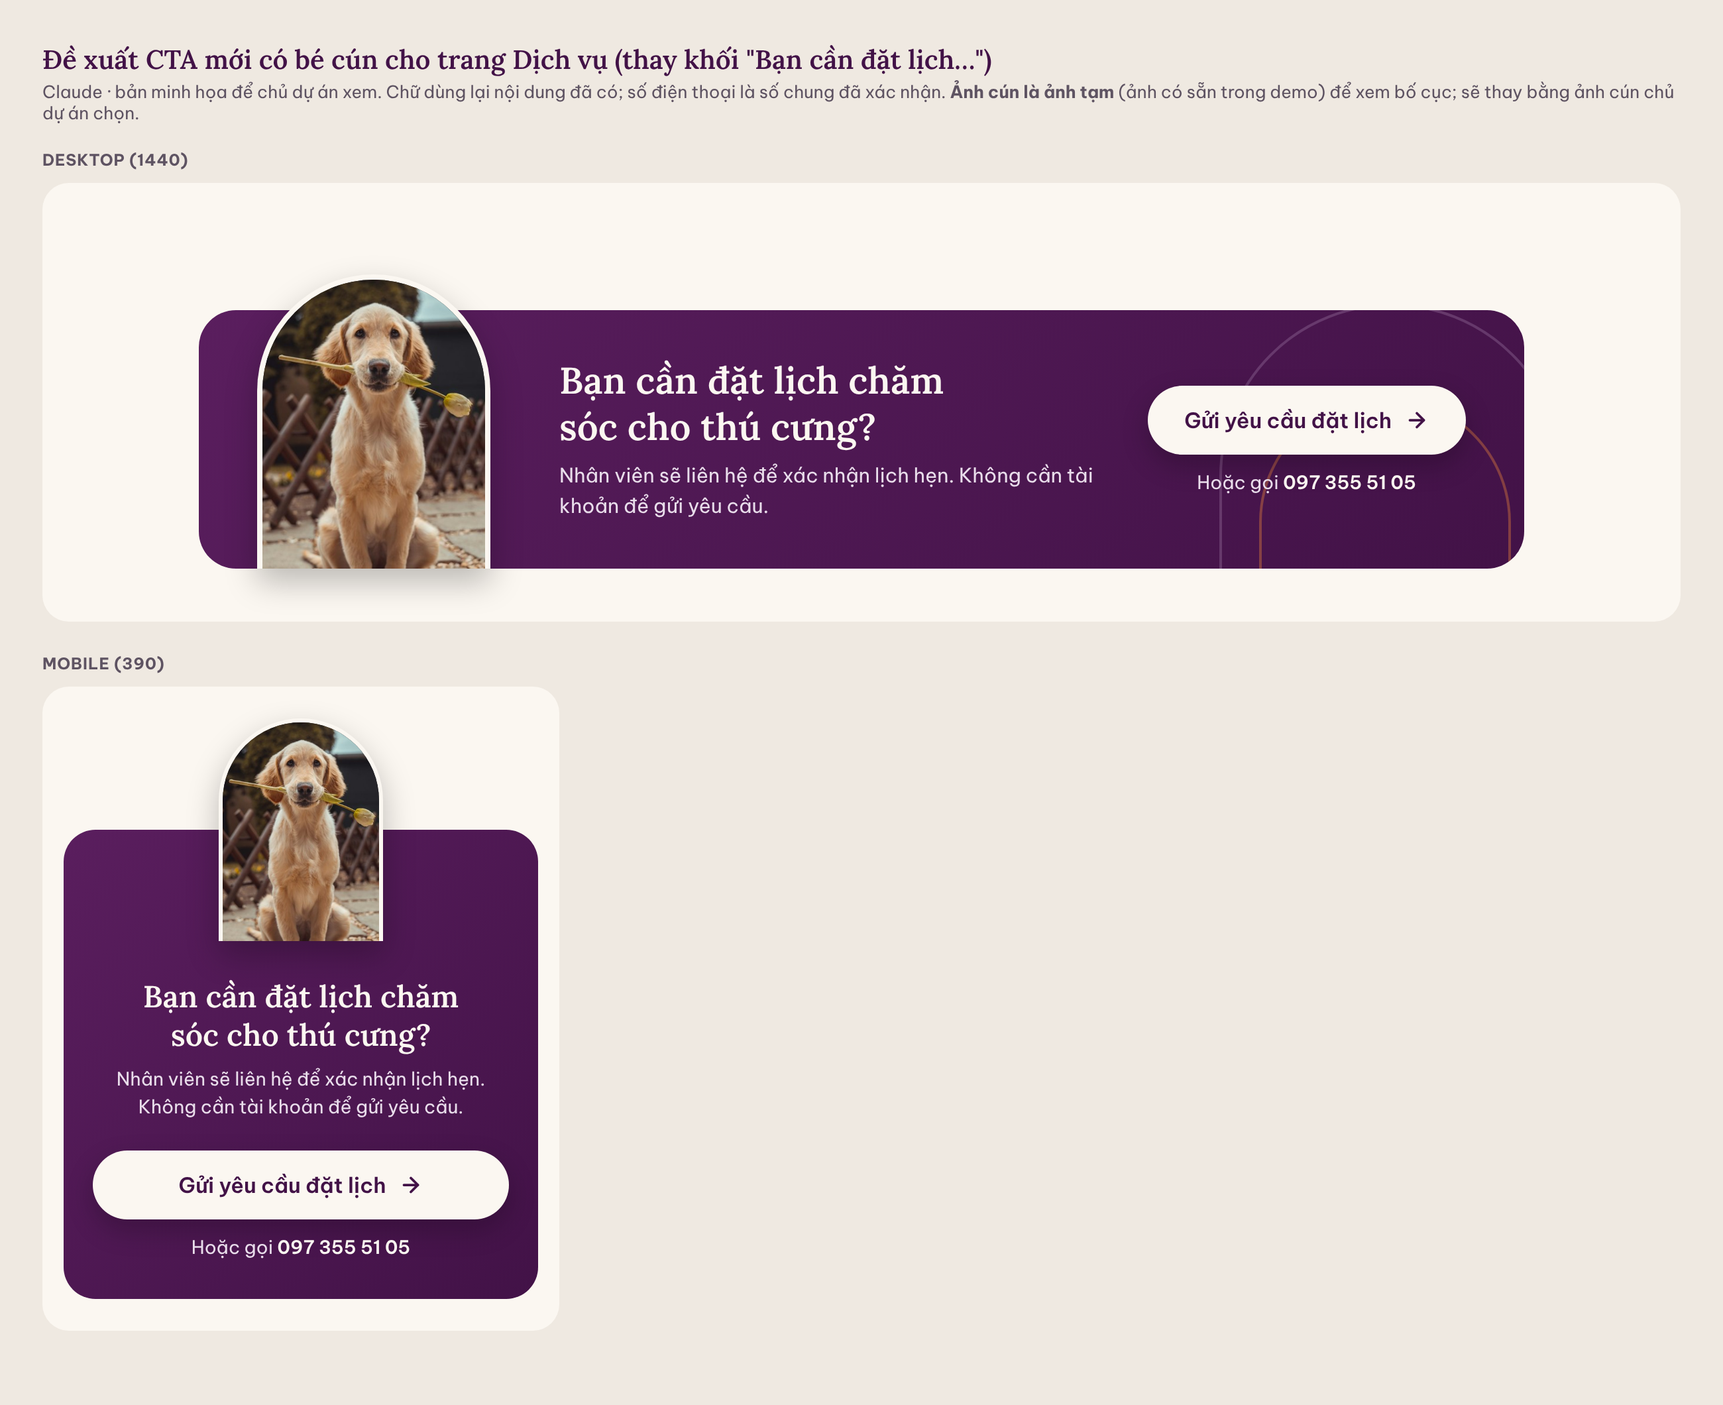
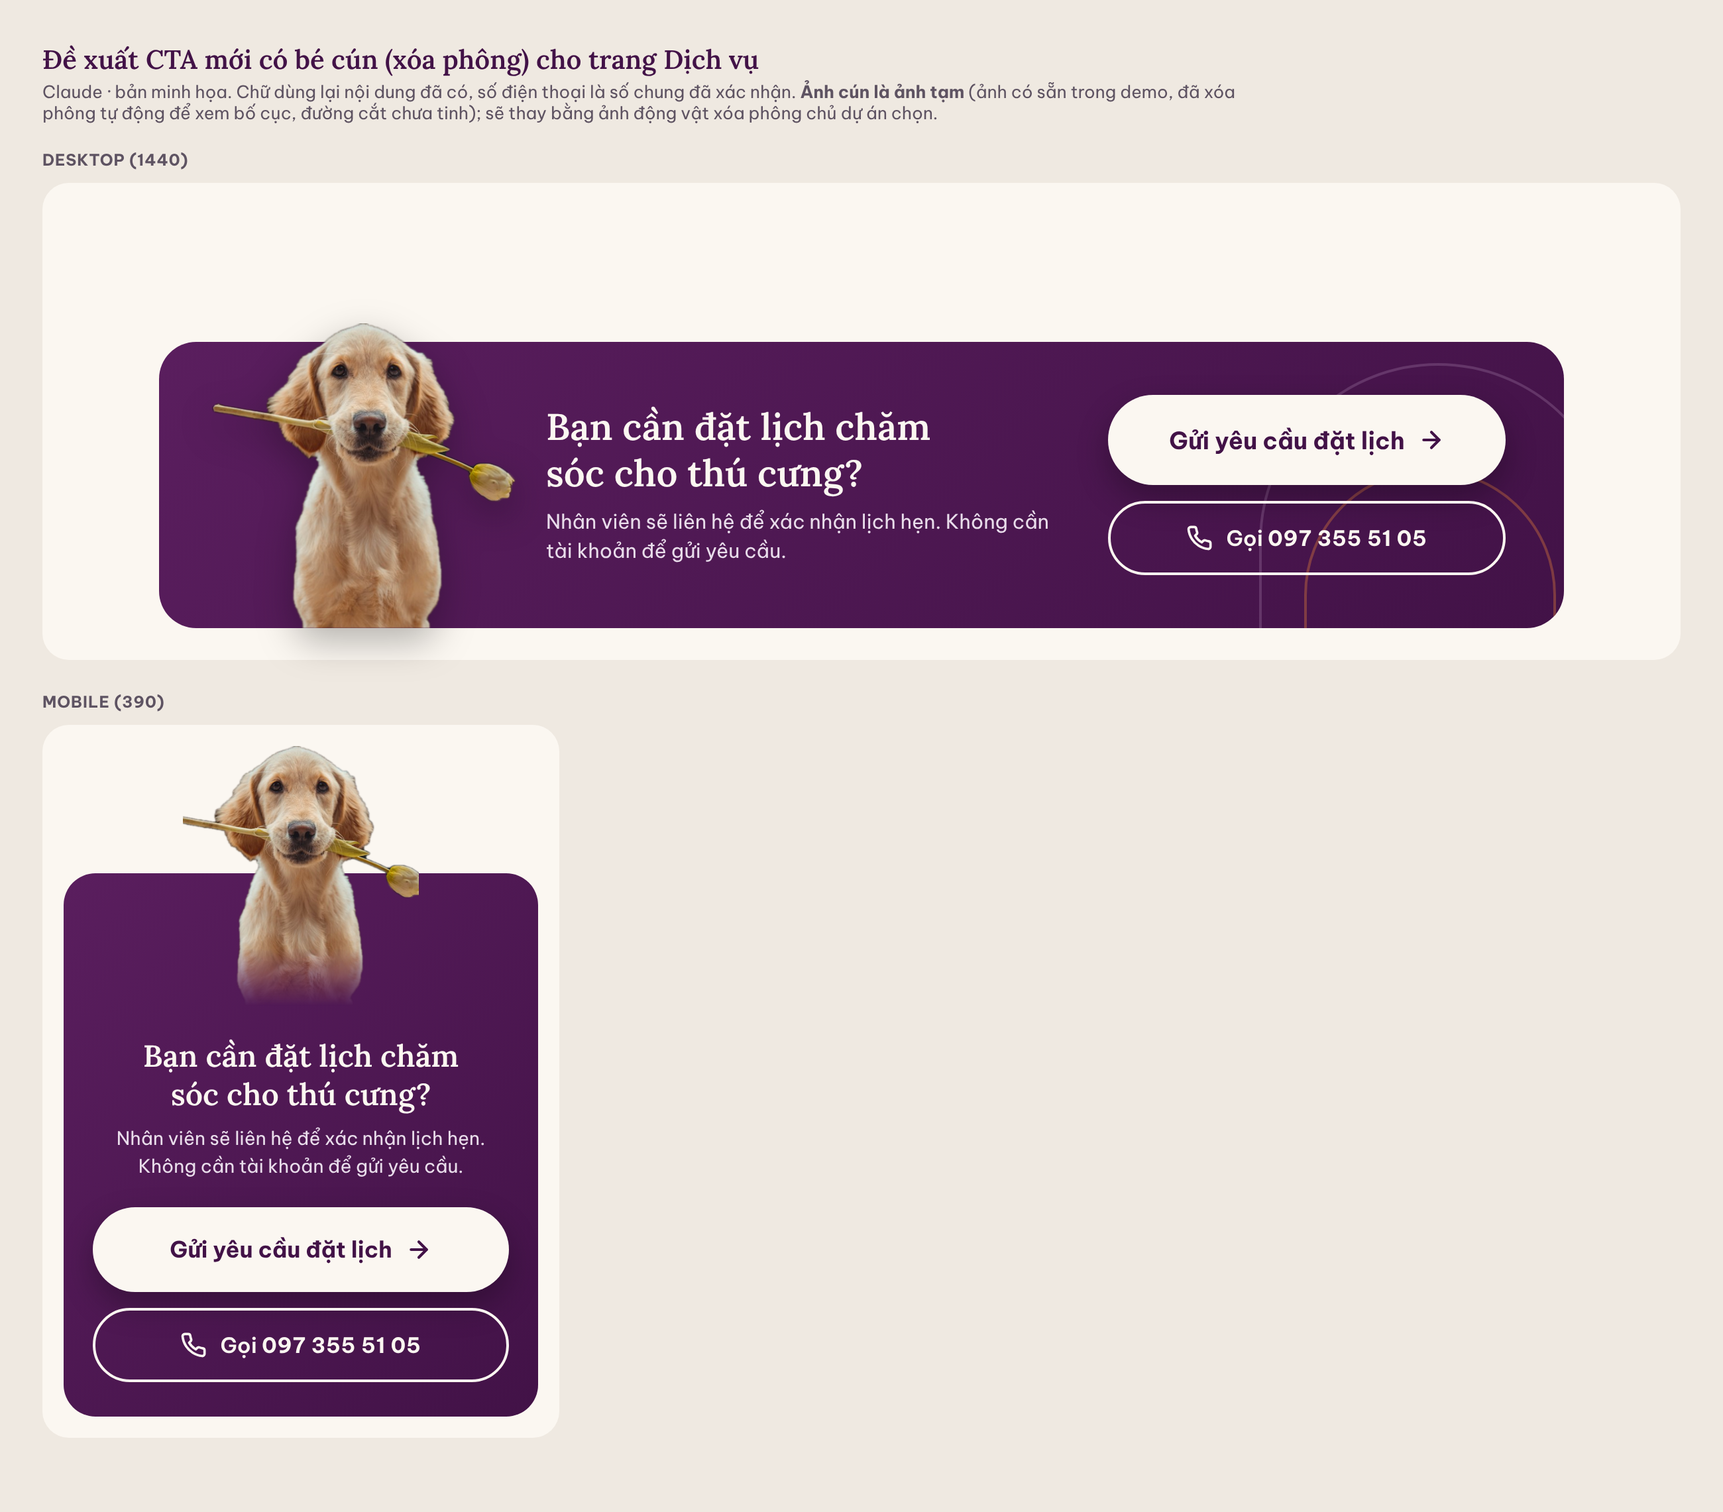
docs: CTA Dich vu ban 3 (nut to hon, nut Goi, cun xoa phong tam)
Claude-Session: https://claude.ai/code/session_01RdR2xeeUL4Rz15FkyvBsuM

diff --git a/docs/de-xuat-cta-dich-vu/cta-moi.html b/docs/de-xuat-cta-dich-vu/cta-moi.html
@@ -1,53 +1,59 @@
-<!doctype html><html lang="vi"><head><meta charset="utf-8"><title>Đề xuất CTA mới cho trang Dịch vụ</title>
+<!doctype html><html lang="vi"><head><meta charset="utf-8"><title>Đề xuất CTA mới có bé cún (xóa phông) cho trang Dịch vụ</title>
 <meta name="viewport" content="width=device-width,initial-scale=1">
 <link href="https://fonts.googleapis.com/css2?family=Be+Vietnam+Pro:wght@400;500;600;700&family=Lora:wght@500;600;700&display=swap" rel="stylesheet">
 <style>
-:root{--purple:#5A1E5E;--purple-dark:#421247;--cream:#FBF7F1;--orange:#FC9238;--lilac:#B896BF}
+:root{--purple:#5A1E5E;--purple-dark:#421247;--cream:#FBF7F1;--orange:#FC9238}
 *{box-sizing:border-box}body{margin:0;padding:32px;background:#EFE9E1;font-family:'Be Vietnam Pro',system-ui,sans-serif;color:#231627}
-h1{font:600 20px 'Lora',serif;color:var(--purple-dark);margin:0 0 4px}.sub{font-size:13px;color:#5E5362;margin:0 0 20px}
-.frame{container-type:inline-size;background:var(--cream);border-radius:20px;padding:40px 24px;margin-bottom:24px}.label{font-size:12px;font-weight:700;color:#5E5362;margin:0 0 10px;letter-spacing:.04em}
-.mobile{width:390px;padding:24px 16px}
-/* ====== CTA MỚI (đề xuất) ====== */
-.cta{position:relative;overflow:hidden;max-width:1000px;margin:0 auto;border-radius:28px;background:linear-gradient(135deg,var(--purple) 0%,var(--purple-dark) 100%);color:var(--cream);padding:36px 44px 36px 84px;display:flex;align-items:center;justify-content:space-between;gap:32px}
-.cta-text{position:relative;z-index:1;max-width:600px}
+h1{font:600 20px 'Lora',serif;color:var(--purple-dark);margin:0 0 4px}.sub{font-size:13px;color:#5E5362;margin:0 0 20px;max-width:900px}
+.frame{container-type:inline-size;background:var(--cream);border-radius:20px;padding:24px;margin-bottom:24px}.label{font-size:12px;font-weight:700;color:#5E5362;margin:0 0 10px;letter-spacing:.04em}
+.mobile{width:390px;padding:16px}
+/* ===== CTA ===== */
+.cta{position:relative;max-width:1060px;margin:96px auto 0;border-radius:28px;background:linear-gradient(135deg,var(--purple) 0%,var(--purple-dark) 100%);color:var(--cream);display:flex;align-items:center;gap:28px;padding:40px 44px 40px 292px;min-height:190px}
+.cta-bg{position:absolute;inset:0;border-radius:inherit;overflow:hidden;pointer-events:none}
+.cta-bg .arch{position:absolute;right:-40px;bottom:-70px;width:270px;height:270px;border:2px solid rgba(184,150,191,.26);border-radius:135px 135px 0 0}
+.cta-bg .arch.two{right:6px;width:190px;height:190px;border-radius:95px 95px 0 0;border-color:rgba(252,146,56,.32)}
+/* bé cún xóa phông: nhô lên khỏi mép trên dải */
+.cta-dog{position:absolute;left:40px;bottom:0;width:236px;z-index:2;pointer-events:none;filter:drop-shadow(0 10px 14px rgba(0,0,0,.28))}
+.cta-dog img{display:block;width:100%;height:auto}
+.cta-text{position:relative;z-index:1;flex:1;min-width:0}
 .cta-title{font:600 28px/1.25 'Lora',serif;margin:0 0 8px;text-wrap:balance}
 .cta-note{margin:0;font-size:15px;line-height:1.5;color:#E9DDEB}
-.cta-actions{position:relative;z-index:1;display:flex;flex-direction:column;align-items:center;gap:12px;flex-shrink:0}
-.cta-btn{display:inline-flex;align-items:center;gap:10px;min-height:52px;padding:0 28px;border-radius:999px;background:var(--cream);color:var(--purple-dark);font:600 16px 'Be Vietnam Pro',sans-serif;text-decoration:none;box-shadow:0 8px 20px rgba(0,0,0,.22);transition:transform .25s,box-shadow .25s}
-.cta-btn svg{width:18px;height:18px;transition:transform .25s}
-@media(hover:hover){.cta-btn:hover{transform:translateY(-2px);box-shadow:0 12px 26px rgba(0,0,0,.28)}.cta-btn:hover svg{transform:translateX(3px)}}
-.cta-btn:focus-visible{outline:3px solid var(--cream);outline-offset:3px;box-shadow:0 0 0 6px var(--orange)}
-.cta-tel{font-size:14px;color:#E9DDEB;text-decoration:none}.cta-tel strong{color:var(--cream);font-weight:600;white-space:nowrap}
-.cta-tel:focus-visible{outline:2px solid var(--cream);outline-offset:3px;border-radius:4px}
-/* bé cún (ảnh tạm) nhô lên khỏi mép trên dải CTA */
-.cta{overflow:visible}.cta-bg{position:absolute;inset:0;border-radius:inherit;overflow:hidden;pointer-events:none}
-.cta-dog{position:absolute;left:44px;bottom:0;width:176px;height:222px;border-radius:88px 88px 0 0;overflow:hidden;border:4px solid var(--cream);border-bottom:0;box-shadow:0 10px 24px rgba(0,0,0,.25);z-index:2;background:#222}
-.cta-dog img{width:100%;height:100%;object-fit:cover;object-position:50% 20%;display:block}
-.cta.has-dog{margin-top:56px;padding-left:272px;min-height:164px}
-/* trang trí tĩnh, nhẹ */
-.cta-bg .arch{position:absolute;right:-30px;bottom:-60px;width:260px;height:260px;border:2px solid rgba(184,150,191,.28);border-radius:130px 130px 0 0;pointer-events:none}
-.cta-bg .arch.two{right:10px;bottom:-60px;width:190px;height:190px;border-radius:95px 95px 0 0;border-color:rgba(252,146,56,.35)}
-
-@container (max-width:760px){.cta{flex-direction:column;align-items:stretch;text-align:center;padding:30px 22px;gap:22px;border-radius:24px}
-.cta-title{font-size:23px}.cta-note{font-size:14px}.cta-actions{align-items:stretch}.cta-btn{justify-content:center;width:100%}.cta-bg{display:none}.cta.has-dog{margin-top:84px;padding:112px 22px 30px}.cta-dog{left:50%;transform:translateX(-50%);top:-84px;bottom:auto;width:124px;height:168px;border-radius:62px 62px 0 0;border-width:3px;border-bottom:0}}
+.cta-actions{position:relative;z-index:1;display:flex;flex-direction:column;gap:12px;width:300px;flex-shrink:0}
+.btn{display:flex;align-items:center;justify-content:center;gap:10px;border-radius:999px;text-decoration:none;font-family:'Be Vietnam Pro',sans-serif;transition:transform .25s,box-shadow .25s,background .25s}
+.btn svg{width:20px;height:20px;flex-shrink:0}
+.btn-primary{min-height:68px;padding:0 28px;background:var(--cream);color:var(--purple-dark);font-weight:700;font-size:18px;box-shadow:0 10px 24px rgba(0,0,0,.28)}
+.btn-call{min-height:56px;padding:0 24px;border:2px solid var(--cream);color:var(--cream);font-weight:600;font-size:16px;background:transparent;white-space:nowrap}
+.btn-call strong{font-weight:700;letter-spacing:.02em}
+@media(hover:hover){.btn-primary:hover{transform:translateY(-2px);box-shadow:0 14px 30px rgba(0,0,0,.34)}.btn-call:hover{background:rgba(251,247,241,.12)}}
+.btn:focus-visible{outline:3px solid var(--cream);outline-offset:3px;box-shadow:0 0 0 7px var(--orange)}
+@container (max-width:860px){
+ .cta{flex-direction:column;align-items:stretch;text-align:center;padding:124px 22px 26px;margin-top:96px;gap:20px;border-radius:24px}
+ .cta-dog{left:50%;transform:translateX(-50%);bottom:auto;top:-96px;width:178px;filter:none;-webkit-mask:none}
+ .cta-dog img{height:196px;object-fit:cover;object-position:top;-webkit-mask-image:linear-gradient(#000 78%,transparent);mask-image:linear-gradient(#000 78%,transparent)}
+ .cta-bg{display:none}.cta-title{font-size:23px}.cta-note{font-size:14px}.cta-actions{width:100%}
+ .btn-primary{min-height:64px;font-size:17px}}
 </style></head><body>
-<h1>Đề xuất CTA mới có bé cún cho trang Dịch vụ (thay khối "Bạn cần đặt lịch…")</h1>
-<p class="sub">Claude · bản minh họa để chủ dự án xem. Chữ dùng lại nội dung đã có; số điện thoại là số chung đã xác nhận. <b>Ảnh cún là ảnh tạm</b> (ảnh có sẵn trong demo) để xem bố cục; sẽ thay bằng ảnh cún chủ dự án chọn.</p>
+<h1>Đề xuất CTA mới có bé cún (xóa phông) cho trang Dịch vụ</h1>
+<p class="sub">Claude · bản minh họa. Chữ dùng lại nội dung đã có, số điện thoại là số chung đã xác nhận. <b>Ảnh cún là ảnh tạm</b> (ảnh có sẵn trong demo, đã xóa phông tự động để xem bố cục, đường cắt chưa tinh); sẽ thay bằng ảnh động vật xóa phông chủ dự án chọn.</p>
 
 <p class="label">DESKTOP (1440)</p>
-<div class="frame"><section class="cta has-dog" aria-label="Gửi yêu cầu đặt lịch">
+<div class="frame"><section class="cta" aria-label="Gửi yêu cầu đặt lịch">
  <div class="cta-bg" aria-hidden="true"><span class="arch two"></span><span class="arch"></span></div>
- <div class="cta-dog" aria-hidden="true"><img src="anh-tam-cun.jpg" alt=""></div>
+ <div class="cta-dog" aria-hidden="true"><img src="anh-cun-xoa-phong-tam.png" alt=""></div>
  <div class="cta-text"><h2 class="cta-title">Bạn cần đặt lịch chăm sóc cho thú cưng?</h2><p class="cta-note">Nhân viên sẽ liên hệ để xác nhận lịch hẹn. Không cần tài khoản để gửi yêu cầu.</p></div>
- <div class="cta-actions"><a class="cta-btn" href="index.html#form-dat-lich"><span>Gửi yêu cầu đặt lịch</span><svg viewBox="0 0 24 24" fill="none" stroke="currentColor" stroke-width="2.5" stroke-linecap="round" stroke-linejoin="round" aria-hidden="true"><line x1="5" y1="12" x2="19" y2="12"/><polyline points="12 5 19 12 12 19"/></svg></a>
- <a class="cta-tel" href="tel:+84973555105">Hoặc gọi <strong>097 355 51 05</strong></a></div>
+ <div class="cta-actions">
+  <a class="btn btn-primary" href="index.html#form-dat-lich"><span>Gửi yêu cầu đặt lịch</span><svg viewBox="0 0 24 24" fill="none" stroke="currentColor" stroke-width="2.5" stroke-linecap="round" stroke-linejoin="round" aria-hidden="true"><line x1="5" y1="12" x2="19" y2="12"/><polyline points="12 5 19 12 12 19"/></svg></a>
+  <a class="btn btn-call" href="tel:+84973555105" aria-label="Gọi 097 355 51 05"><svg viewBox="0 0 24 24" fill="none" stroke="currentColor" stroke-width="2.2" stroke-linecap="round" stroke-linejoin="round" aria-hidden="true"><path d="M22 16.92v3a2 2 0 0 1-2.18 2 19.79 19.79 0 0 1-8.63-3.07 19.5 19.5 0 0 1-6-6 19.79 19.79 0 0 1-3.07-8.67A2 2 0 0 1 4.11 2h3a2 2 0 0 1 2 1.72 12.84 12.84 0 0 0 .7 2.81 2 2 0 0 1-.45 2.11L8.09 9.91a16 16 0 0 0 6 6l1.27-1.27a2 2 0 0 1 2.11-.45 12.84 12.84 0 0 0 2.81.7A2 2 0 0 1 22 16.92z"/></svg><span>Gọi <strong>097 355 51 05</strong></span></a>
+ </div>
 </section></div>
 
 <p class="label">MOBILE (390)</p>
-<div class="frame mobile"><section class="cta has-dog" aria-label="Gửi yêu cầu đặt lịch">
- <div class="cta-dog" aria-hidden="true"><img src="anh-tam-cun.jpg" alt=""></div>
+<div class="frame mobile"><section class="cta" aria-label="Gửi yêu cầu đặt lịch">
+ <div class="cta-dog" aria-hidden="true"><img src="anh-cun-xoa-phong-tam.png" alt=""></div>
  <div class="cta-text"><h2 class="cta-title">Bạn cần đặt lịch chăm sóc cho thú cưng?</h2><p class="cta-note">Nhân viên sẽ liên hệ để xác nhận lịch hẹn. Không cần tài khoản để gửi yêu cầu.</p></div>
- <div class="cta-actions"><a class="cta-btn" href="index.html#form-dat-lich"><span>Gửi yêu cầu đặt lịch</span><svg viewBox="0 0 24 24" fill="none" stroke="currentColor" stroke-width="2.5" stroke-linecap="round" stroke-linejoin="round" aria-hidden="true"><line x1="5" y1="12" x2="19" y2="12"/><polyline points="12 5 19 12 12 19"/></svg></a>
- <a class="cta-tel" href="tel:+84973555105">Hoặc gọi <strong>097 355 51 05</strong></a></div>
+ <div class="cta-actions">
+  <a class="btn btn-primary" href="index.html#form-dat-lich"><span>Gửi yêu cầu đặt lịch</span><svg viewBox="0 0 24 24" fill="none" stroke="currentColor" stroke-width="2.5" stroke-linecap="round" stroke-linejoin="round" aria-hidden="true"><line x1="5" y1="12" x2="19" y2="12"/><polyline points="12 5 19 12 12 19"/></svg></a>
+  <a class="btn btn-call" href="tel:+84973555105" aria-label="Gọi 097 355 51 05"><svg viewBox="0 0 24 24" fill="none" stroke="currentColor" stroke-width="2.2" stroke-linecap="round" stroke-linejoin="round" aria-hidden="true"><path d="M22 16.92v3a2 2 0 0 1-2.18 2 19.79 19.79 0 0 1-8.63-3.07 19.5 19.5 0 0 1-6-6 19.79 19.79 0 0 1-3.07-8.67A2 2 0 0 1 4.11 2h3a2 2 0 0 1 2 1.72 12.84 12.84 0 0 0 .7 2.81 2 2 0 0 1-.45 2.11L8.09 9.91a16 16 0 0 0 6 6l1.27-1.27a2 2 0 0 1 2.11-.45 12.84 12.84 0 0 0 2.81.7A2 2 0 0 1 22 16.92z"/></svg><span>Gọi <strong>097 355 51 05</strong></span></a>
+ </div>
 </section></div>
 </body></html>

diff --git a/docs/de-xuat-cta-dich-vu/README.md b/docs/de-xuat-cta-dich-vu/README.md
@@ -1,24 +1,26 @@
-# Đề xuất CTA mới cho trang Dịch vụ (Claude, 15/10/2026)
+# Đề xuất CTA mới cho trang Dịch vụ (Claude, 15/10/2026, bản 3)
 
-**Trạng thái:** đề xuất, **chờ chủ dự án duyệt**. Chưa là yêu cầu cho Antigravity. Thay khối cũ "Bạn cần đặt lịch chăm sóc cho thú cưng?" (thẻ tím nhạt cao, thừa khoảng trống) ở cuối trang Dịch vụ.
+**Trạng thái:** đề xuất, **chờ chủ dự án duyệt**; chưa là yêu cầu cho Antigravity. Thay khối cũ "Bạn cần đặt lịch chăm sóc cho thú cưng?" ở cuối trang Dịch vụ. Xem [ảnh](cta-moi.png) và [bản HTML chạy được](cta-moi.html).
 
-Xem: [ảnh](cta-moi.png) · [bản HTML chạy được](cta-moi.html) (có CSS đầy đủ để Antigravity dùng nếu được duyệt).
+## Thay đổi theo góp ý của chủ dự án (bản 3)
+
+- **Ô "Gửi yêu cầu đặt lịch" to hơn:** cao 68 px (trước 52), chữ 18 px đậm, rộng 300 px (desktop); mobile cao 64 px, rộng hết khung.
+- **Thêm ô "Gọi 097 355 51 05" thật** (nút viền kem, cao 56 px, cùng bề rộng với nút chính, có biểu tượng điện thoại, bấm là gọi `tel:+84973555105`). Thay cho dòng chữ nhỏ "Hoặc gọi…".
+- **Bé cún là ảnh động vật xóa phông**, đứng bên trái, thân nằm sau mép dải và đầu nhô lên trên (mobile: nhô lên phía trên, giữa). **Ảnh cún trong bản minh họa là ảnh tạm**: ảnh có sẵn trong demo, tách nền tự động nên đường cắt chưa tinh (nguồn chưa xác nhận). Chủ dự án gửi ảnh động vật đã xóa phông (PNG/WebP nền trong suốt, dọc, thấy rõ mặt và nửa thân trên); Antigravity dùng nguyên ảnh đó.
 
 ## Thiết kế
 
-- Dải tím đậm `#5A1E5E → #421247`, chữ kem `#FBF7F1` (tương phản 11,0 đến 14,0:1), bo 28 px, thấp gọn (cao khoảng 150 px ở desktop, cộng phần cún nhô lên khoảng 28 px; bỏ khoảng trống thừa của khối cũ).
-- Trái: tiêu đề giữ nguyên "Bạn cần đặt lịch chăm sóc cho thú cưng?" và một dòng "Nhân viên sẽ liên hệ để xác nhận lịch hẹn. Không cần tài khoản để gửi yêu cầu." (nội dung đã có, đúng nghiệp vụ).
-- Phải: nút kem "Gửi yêu cầu đặt lịch →" (cao 52 px, chữ tím đậm 14:1, trỏ `index.html#form-dat-lich`), bên dưới "Hoặc gọi **097 355 51 05**" (`tel:+84973555105`, số chung đã xác nhận).
-- **Bé cún (theo yêu cầu chủ dự án):** ảnh cún trong khung vòm có viền kem, đặt ở bên trái và **nhô lên khỏi mép trên dải tím** (desktop). Mobile: cún nằm giữa, nhô lên phía trên dải, tiêu đề ở dưới. **Ảnh cún trong bản minh họa là ảnh tạm** (ảnh có sẵn trong demo, nguồn chưa xác nhận); sẽ thay bằng ảnh chủ dự án chọn (nên là ảnh cắt nền hoặc nền đơn giản, dọc, thấy rõ mặt).
-- Trang trí tĩnh, rất nhẹ: hai vòm mảnh (tím nhạt và cam) ở góc phải, cùng ngôn ngữ vòm của Hero. Không hiệu ứng lặp; hover chỉ nhấc nút một lần, bọc `@media (hover: hover)`.
-- Mobile (≤ 760 px): xếp dọc, căn giữa, nút rộng hết khung, ẩn vòm trang trí.
-- Focus bàn phím: viền kem cộng vòng cam quanh nút (nền tím nên nhìn rõ).
+- Dải tím đậm `#5A1E5E → #421247`, chữ kem `#FBF7F1` (11,0 đến 14,0:1), bo 28 px, trang trí tĩnh: hai vòm mảnh (tím nhạt, cam) ở góc phải. Không hiệu ứng lặp; hover chỉ nhấc nút một lần, bọc `@media (hover: hover)`.
+- Chữ: tiêu đề giữ "Bạn cần đặt lịch chăm sóc cho thú cưng?"; một dòng "Nhân viên sẽ liên hệ để xác nhận lịch hẹn. Không cần tài khoản để gửi yêu cầu."
+- Nút chính: nền kem, chữ tím đậm, trỏ `index.html#form-dat-lich` (đích form chưa có là HOÃN ĐÃ CHỐT).
+- Focus bàn phím: viền kem cộng vòng cam quanh cả hai nút.
+- Mobile (≤ 860 px chiều rộng khung): xếp dọc, căn giữa, ẩn vòm trang trí; hai nút rộng hết khung, cao ≥ 56 px.
 
 ## Điểm cần chủ dự án quyết
 
-1. Có giữ dòng "Hoặc gọi 097 355 51 05" không (thêm đường gọi nhanh, nhưng không nằm trong CTA cũ).
-2. Có giữ dòng ghi chú ("Nhân viên sẽ liên hệ… Không cần tài khoản…") ở trang Services không (quyết định bỏ chỉ áp dụng cho Hero).
-3. Ảnh cún: chủ dự án chọn ảnh (dọc, thấy rõ mặt); cún ở bên trái hay bên phải; có muốn cún nhô lên khỏi dải như bản này không.
-4. Nền tím đậm hay muốn bản nền kem viền tím nhạt (nhẹ hơn, giống khối cũ hơn).
+1. Ảnh cún: gửi ảnh đã xóa phông (hoặc đồng ý dùng ảnh Golden tạm sau khi tách nền tinh hơn).
+2. Cún bên trái (như bản này) hay bên phải.
+3. Giữ dòng ghi chú "Nhân viên sẽ liên hệ… Không cần tài khoản…" ở trang Services (quyết định bỏ chỉ áp dụng cho Hero).
+4. Nền tím đậm hay nền kem viền tím nhạt.
 
-Đạt khi (nếu được duyệt, Claude kiểm): chữ và liên kết đúng như trên; không tràn ngang ở 1440, 1024, 390, 360 px; không khoảng trống thừa; focus thấy rõ; không hiệu ứng lặp; nút đặt lịch trỏ đúng đích đã thống nhất (đích form chưa có là HOÃN ĐÃ CHỐT).
+Đạt khi (nếu được duyệt, Claude kiểm): chữ, số và liên kết đúng như trên; hai nút đúng kích thước và bấm được (tel không bị chặn); không tràn ngang ở 1440, 1024, 390, 360; cún không đè chữ/nút; ảnh đã xóa phông, không viền trắng/răng cưa ở cạnh; focus thấy rõ; không hiệu ứng lặp.
